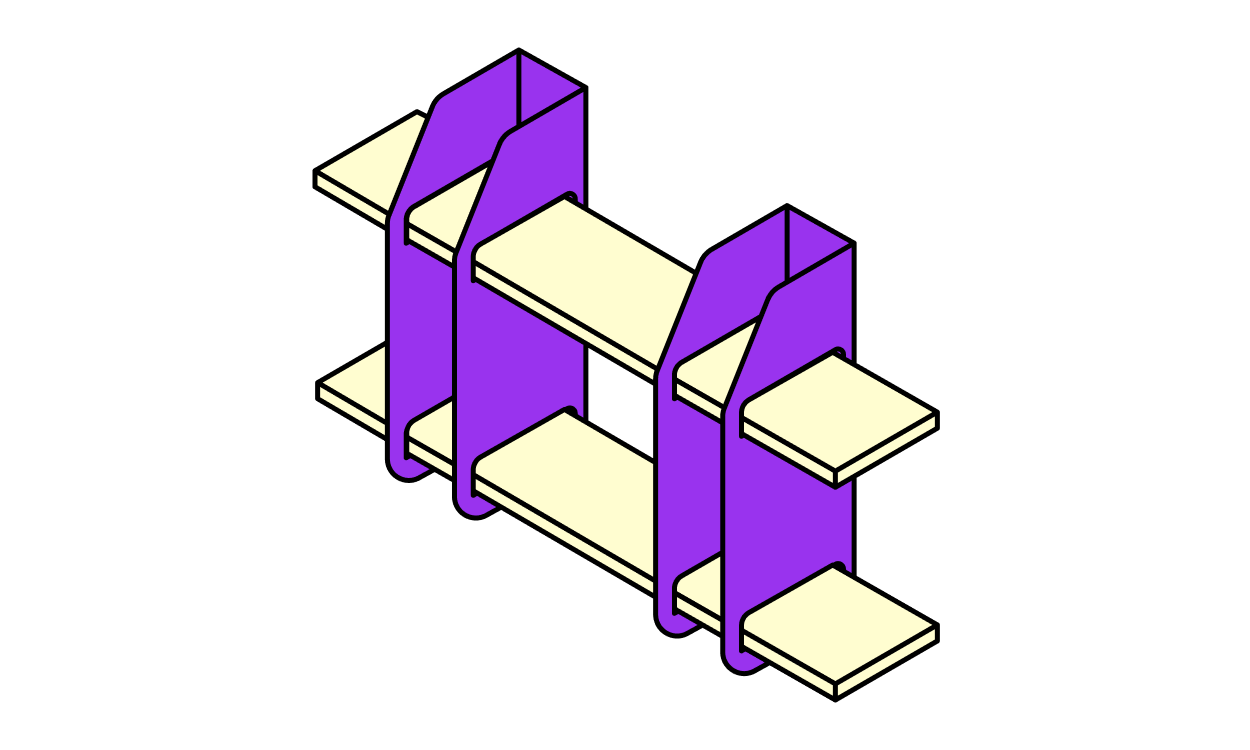
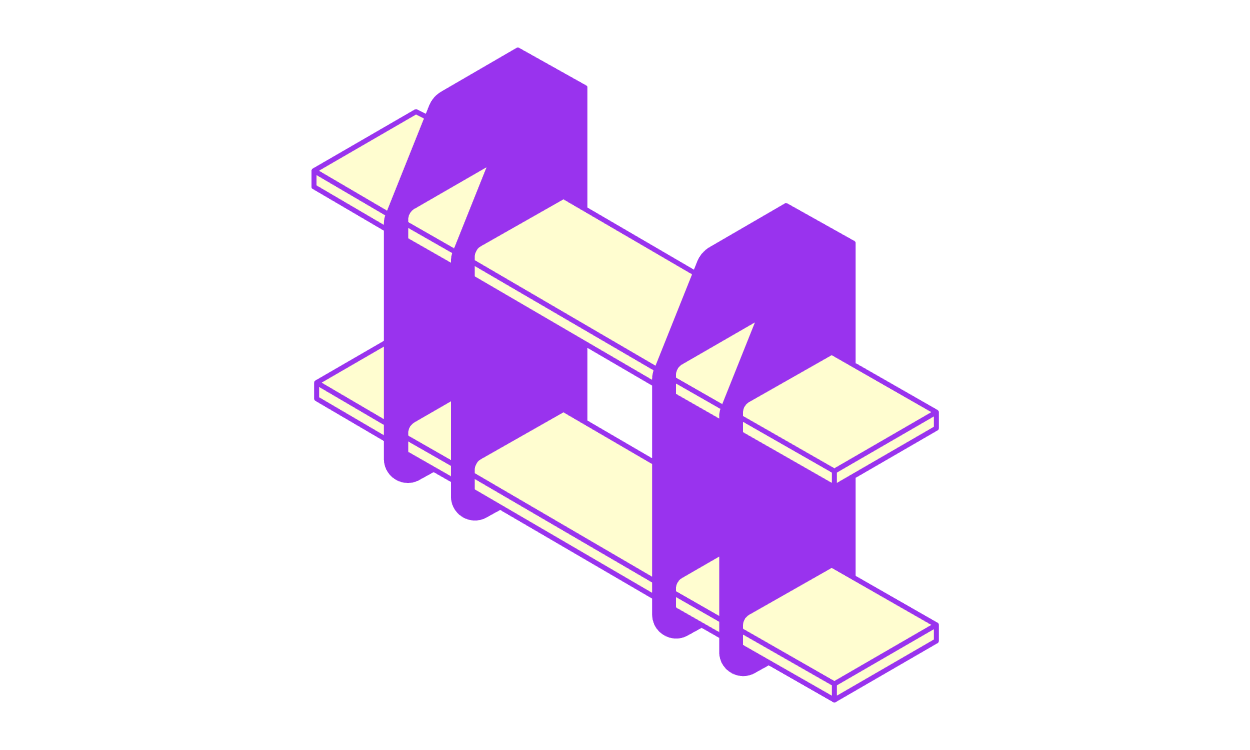
change illustrations, fix hover for theme, fix theme button

diff --git a/src/contexts/ThemeContext.jsx b/src/contexts/ThemeContext.jsx
@@ -5,7 +5,6 @@ const themeMap = {
   blue: { color: "#0000FF", mediaPath: "blue" },
   red: { color: "#FF0000", mediaPath: "red" },
   green: { color: "#008800", mediaPath: "green" },
-  pink: { color: "#FF00FF", mediaPath: "pink" },
   orange: { color: "#FFBB00", mediaPath: "orange" },
   purple: { color: "#9933EE", mediaPath: "purple" },
 };
@@ -13,6 +12,7 @@ const themeMap = {
 // Create a context for theme management with default values
 const ThemeContext = createContext({
   primaryColor: "var(--primary)",
+  primaryHighlightColor: "var(--primary_highlight)",
   mediaPath: "blue",
   changeTheme: () => {},
   getRandomTheme: () => {},
@@ -26,12 +26,16 @@ export function useTheme() {
 // Provider component to wrap application components and provide theme context
 export const ThemeProvider = ({ children }) => {
   const [primaryColor, setPrimaryColor] = useState("var(--primary)");
+  const [primaryHighlightColor, setPrimaryHighlightColor] = useState("var(--primary_highlight)");
   const [mediaPath, setMediaPath] = useState("blue");
 
   // Function to update the theme
   const changeTheme = (newColor, newMediaPath) => {
+    const newHighlightColor = newColor + "90"
     document.documentElement.style.setProperty("--primary", newColor);
+    document.documentElement.style.setProperty("--primary_highlight", newHighlightColor);
     setPrimaryColor(newColor);
+    setPrimaryHighlightColor(newHighlightColor);
     setMediaPath(newMediaPath);
   };
 
@@ -49,12 +53,13 @@ export const ThemeProvider = ({ children }) => {
   const value = useMemo(
     () => ({
       primaryColor,
+      primaryHighlightColor,
       mediaPath,
       changeTheme,
       getRandomTheme,
       themeMap,
     }),
-    [primaryColor, mediaPath]
+    [primaryColor, primaryHighlightColor, mediaPath]
   );
 
   // Provide the theme context to children components

diff --git a/src/components/ThemeButton.jsx b/src/components/ThemeButton.jsx
@@ -1,6 +1,5 @@
 import React, { useState } from "react";
 import { useTheme } from "../contexts/ThemeContext";
-import { useUI } from "../contexts/UIContext";
 import { FontAwesomeIcon } from "@fortawesome/react-fontawesome";
 import { faPaintBrush } from "@fortawesome/free-solid-svg-icons";
 
@@ -9,7 +8,6 @@ function ThemeButton() {
   const [swipe, setSwipe] = useState(false);
   const [nextTheme, setNextTheme] = useState(null);
   const { primaryColor, getRandomTheme, changeTheme } = useTheme();
-  const { isSidebarActive } = useUI();
 
   // Function to handle theme toggle
   const toggleTheme = () => {
@@ -26,16 +24,13 @@ function ThemeButton() {
     }, 1000);
   };
 
-  // Button is disabled during swipe animation or when sidebar is active
-  const isDisabled = swipe || isSidebarActive;
-
   return (
     <>
       <button
         id="theme-button"
         onClick={toggleTheme}
-        disabled={isDisabled}
-        className={`fixed bottom-5 right-5 z-50 font-bold py-2 px-4 rounded shadow transition-colors hover:bg-black ${isDisabled ? "opacity-70 bg-black" : "opacity-100 bg-primary"} text-fond`}
+        disabled={swipe}
+        className={`fixed right-4 z-20 top-[calc(100vh-3rem)] md:top-[calc(100vh-4rem)] md:right-6 lg:top-8 lg:right-7 font-bold py-1 px-2 md:py-1.5 md:px-3 rounded shadow transition-colors bg-primary hover:bg-primary_highlight  text-fond`}
       >
         <FontAwesomeIcon icon={faPaintBrush} />
       </button>

diff --git a/src/components/Hero.jsx b/src/components/Hero.jsx
@@ -8,11 +8,13 @@ function Hero() {
         <h1 className="text-primary text-6xl font-extrabold w-full md:w-3/4 max-w-[50rem]">
           welcome to my space
         </h1>
-        <p className="text-primary text-xl font-normal text-justify md:text-left w-full md:w-3/4 max-w-[50rem] mt-4">
+        <p className="text-primary text-xl font-normal text-left w-full md:w-3/4 max-w-[50rem] mt-4">
           Explore my world, where robotics, data and software engineering meet
-          creativity and design. Discover projects that blend technology with
+          creativity and design.
+          Discover projects that blend technology with
           creativity and learn about my studies, my hobbies, my career, and
-          beyond. Feel free to reach out to discuss ideas, collaborate, or
+          beyond.
+          Feel free to reach out to discuss ideas, collaborate, or
           simply learn more about my work.
         </p>
       </div>

diff --git a/src/components/pages/Page.jsx b/src/components/pages/Page.jsx
@@ -2,7 +2,7 @@ import React from 'react';
 
 function Page({ children }) {
   return (
-    <div className='h-[2000px] absolute z-0 w-full 2xl:w-[calc(100%-15rem)] min-w-20 transform translate-x-0 2xl:translate-x-60 translate-y-20 md:translate-y-24 2xl:translate-y-0 p-5 md:p-20 m-auto transition-all duration-500 ease-in-out'>
+    <div className='h-[2000px] absolute z-0 w-full 2xl:w-[calc(100%-15rem)] min-w-20 transform translate-x-0 2xl:translate-x-60 translate-y-20 md:translate-y-24 2xl:translate-y-0 p-5 md:p-20 2xl:p-10 m-auto transition-all duration-500 ease-in-out'>
       {children}
     </div>
   );

diff --git a/src/components/navigation/Hamburger.jsx b/src/components/navigation/Hamburger.jsx
@@ -10,7 +10,7 @@ function Hamburger() {
     <div
       id="hamburger"
       onClick={toggleUI}
-      className="fixed z-30 right-0 h-10 w-10 m-5 cursor-pointer visible opacity-100 transition-opacity duration-500 ease-in-out md:-translate-x-2 md:translate-y-2 lg:invisible lg:opacity-0"
+      className="fixed pointer-events-auto z-30 right-0 h-10 w-10 m-5 cursor-pointer visible opacity-100 transition-opacity duration-500 ease-in-out md:-translate-x-2 md:translate-y-2 lg:pointer-events-none lg:invisible lg:opacity-0"
     >
       <span id="hamburger-top" />
       <span id="hamburger-middle" />

diff --git a/src/components/navigation/Header.jsx b/src/components/navigation/Header.jsx
@@ -29,7 +29,7 @@ function Header() {
       </div>
       <nav
         id="header-navbar"
-        className="flex absolute right-0 top-0 h-full items-center pr-10 text-3xl font-extrabold invisible opacity-0 transition-opacity duration-500 ease-in-out lg:visible lg:opacity-100 2xl:invisible 2xl:opacity-0"
+        className="flex absolute right-0 top-0 h-full items-center pr-[7.5rem] text-3xl font-extrabold invisible opacity-0 transition-opacity duration-500 ease-in-out lg:visible lg:opacity-100 2xl:invisible 2xl:opacity-0"
       >
         <ul className="flex space-x-12">
           <li>

diff --git a/src/components/pages/Home.jsx b/src/components/pages/Home.jsx
@@ -6,7 +6,7 @@ import Hero from "../Hero";
 function Home() {
   return (
     <Page id="home-page">
-      <div id="home-page-landing" className="flex flex-col justify-between h-[calc(100svh-13rem)] 2xl:h-[calc(100svh-7rem)]">
+      <div id="home-page-landing" className="flex flex-col justify-between min-h-[800px] h-[calc(100svh-13rem)] 2xl:h-[calc(100svh-5rem)]">
         <Hero></Hero>
         <FeaturedProjects/>
       </div>

diff --git a/src/App.css b/src/App.css
@@ -1,6 +1,6 @@
 :root {
   --primary: #0000FF;
-  --primary_highlight: #AAAAFF;
+  --primary_highlight: #0000FF90;
   --fond: #FFFDD0;
   --fond_transparent: #FFFDD030;
 }
